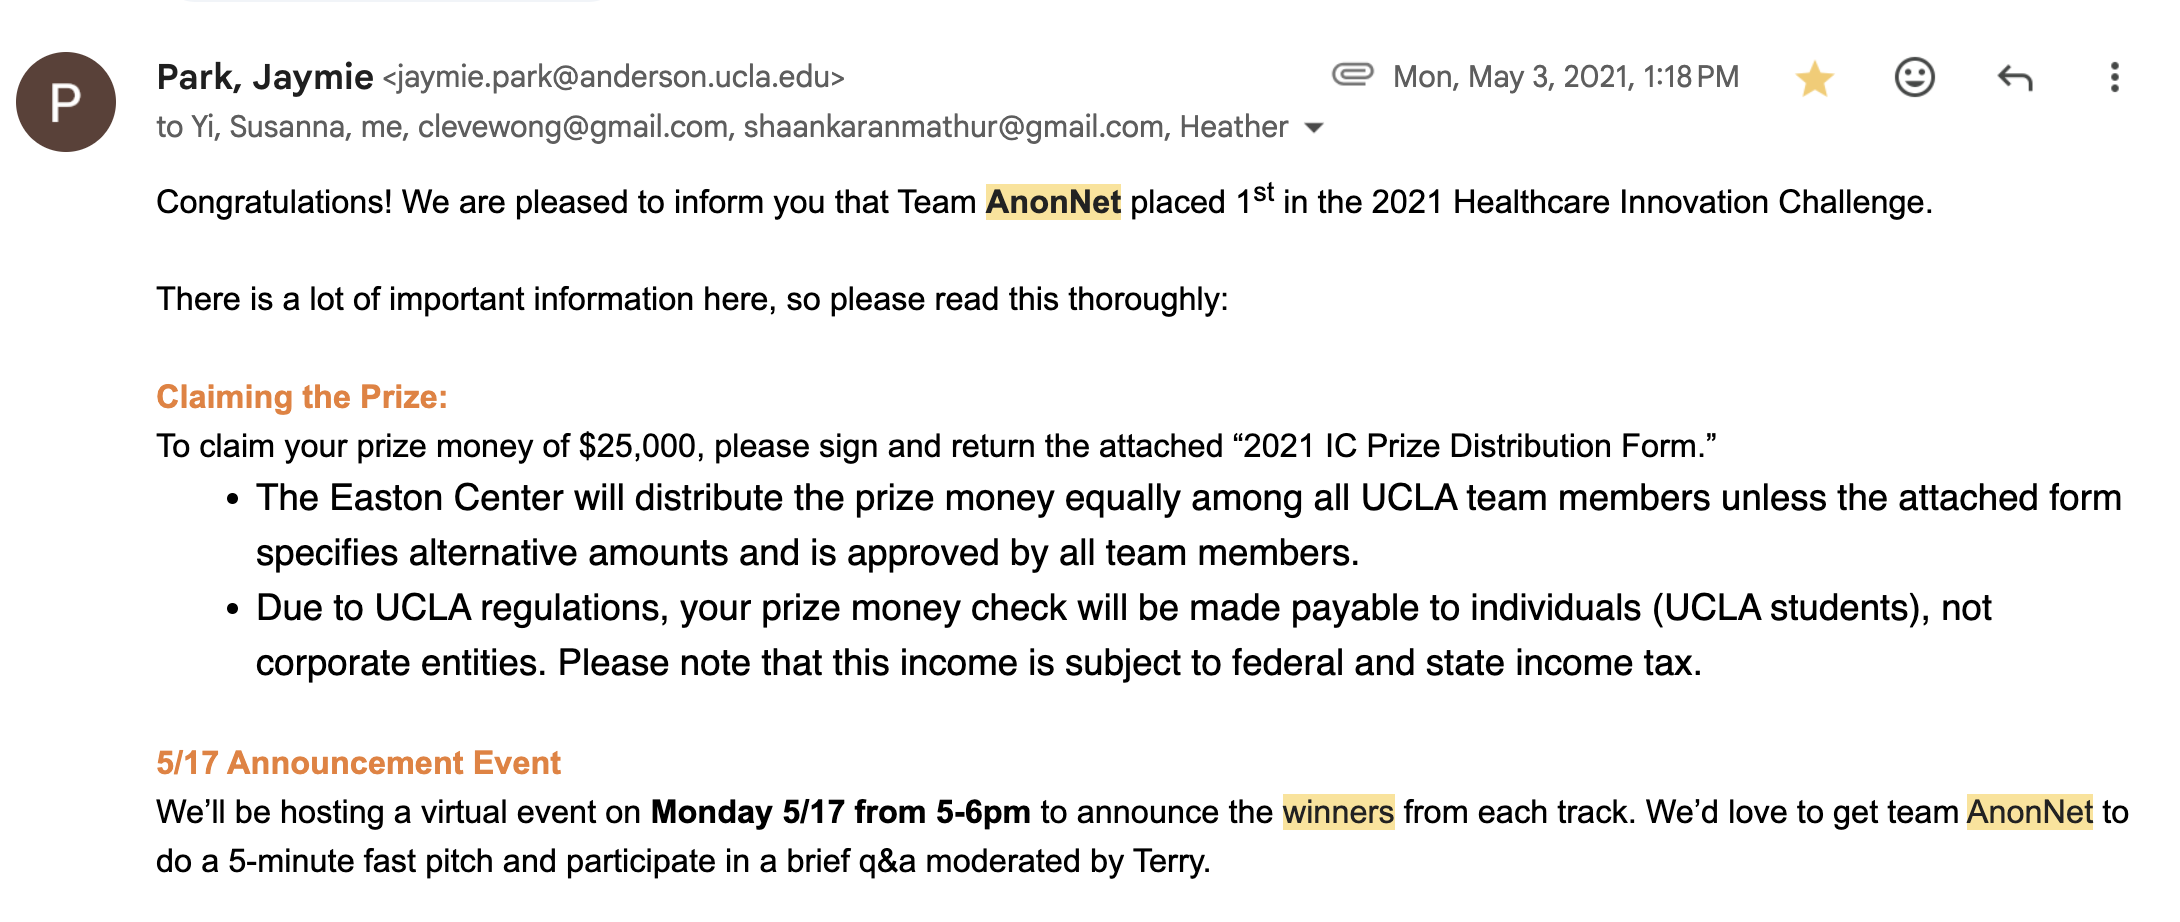
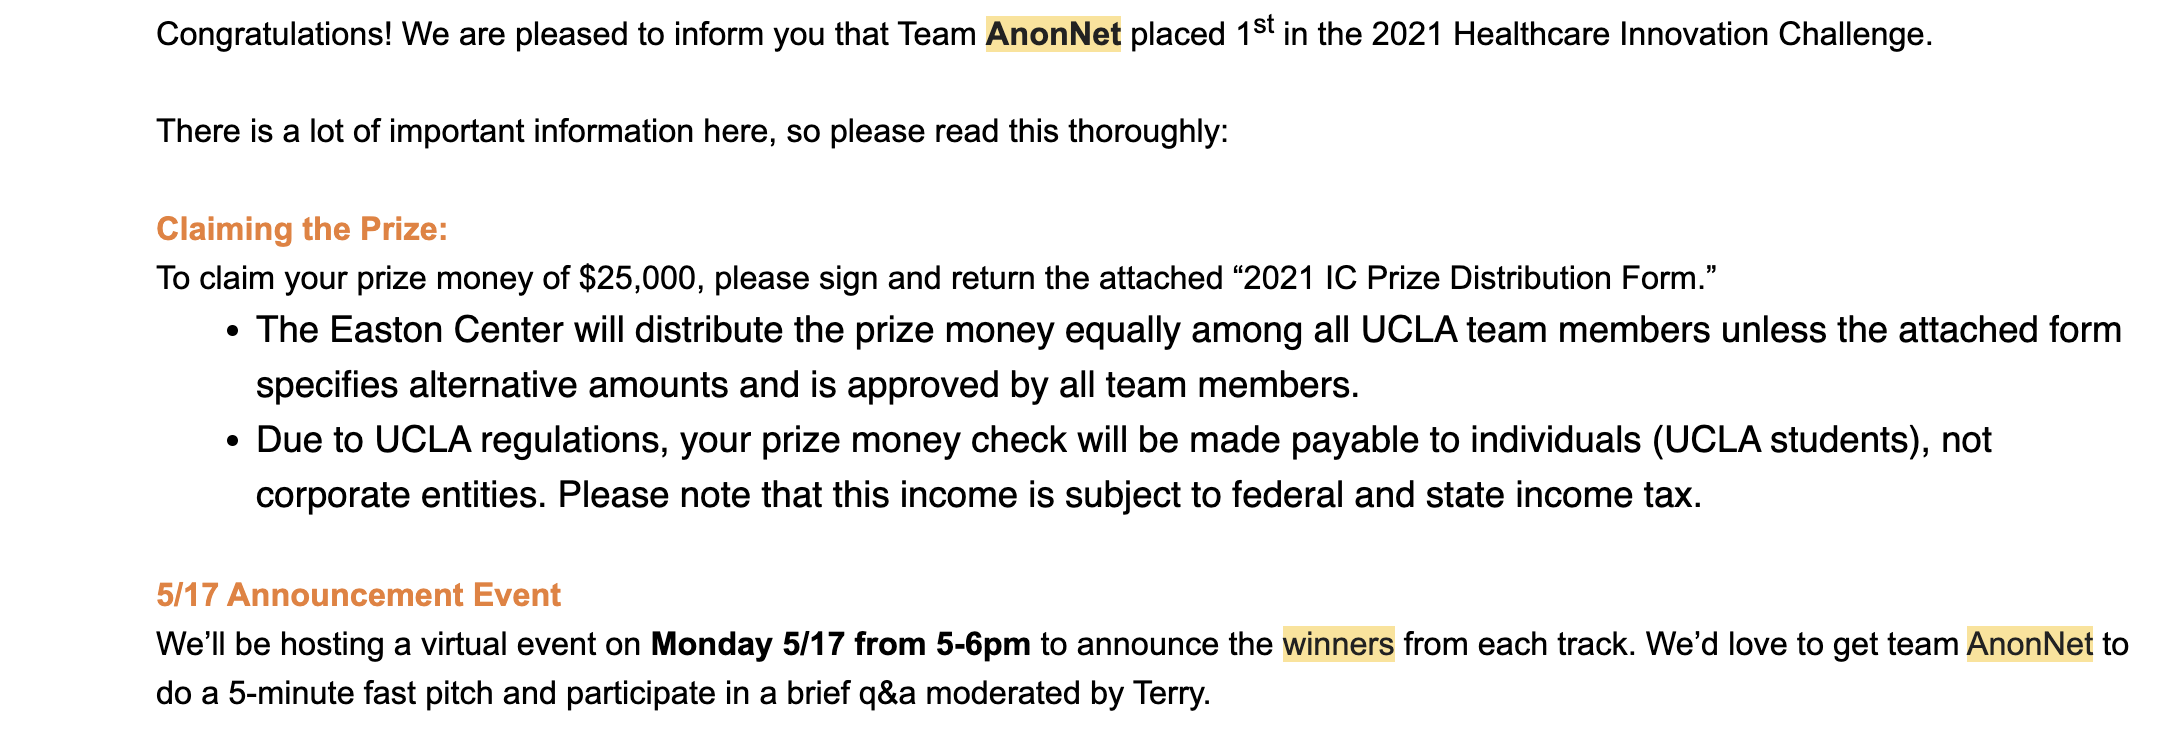
Remove exposed personal info and add stylesheet integrity checks
- Crop the email header (classmates' addresses) out of anonnet_winner.png
- Strip GPS/camera EXIF from img/headshot-720.jpg
- Delete gci_home.png (portal username), unused headshot.JPG, and the
  unreferenced Replit leftovers in attached_assets/ (keeps the MSIS 522 PDF)
- Add SRI hashes + crossorigin to the cdnjs Tailwind and Font Awesome links
- Ignore .claude/

diff --git a/index.html b/index.html
@@ -19,8 +19,8 @@
   <meta name="twitter:description" content="Client-facing technical consultant taking enterprise software from discovery and executive demos to go-live. Salesforce Certified Platform Administrator building with Agentforce and Data 360.">
   <meta name="twitter:image" content="https://pzavar.com/img/og-card.jpg">
   <link rel="icon" href="ph.png" type="image/png">
-  <link href="https://cdnjs.cloudflare.com/ajax/libs/tailwindcss/2.2.19/tailwind.min.css" rel="stylesheet">
-  <link rel="stylesheet" href="https://cdnjs.cloudflare.com/ajax/libs/font-awesome/6.5.1/css/all.min.css">
+  <link href="https://cdnjs.cloudflare.com/ajax/libs/tailwindcss/2.2.19/tailwind.min.css" rel="stylesheet" integrity="sha512-wnea99uKIC3TJF7v4eKk4Y+lMz2Mklv18+r4na2Gn1abDRPPOeef95xTzdwGD9e6zXJBteMIhZ1+68QC5byJZw==" crossorigin="anonymous" referrerpolicy="no-referrer">
+  <link rel="stylesheet" href="https://cdnjs.cloudflare.com/ajax/libs/font-awesome/6.5.1/css/all.min.css" integrity="sha512-DTOQO9RWCH3ppGqcWaEA1BIZOC6xxalwEsw9c2QQeAIftl+Vegovlnee1c9QX4TctnWMn13TZye+giMm8e2LwA==" crossorigin="anonymous" referrerpolicy="no-referrer">
   <link href="https://fonts.googleapis.com/css2?family=Inter:wght@400;500;600;700;800&family=JetBrains+Mono:wght@400;500&display=swap" rel="stylesheet">
   <link rel="stylesheet" href="style.css">
   <style>

diff --git a/demos.html b/demos.html
@@ -17,8 +17,8 @@
   <meta name="twitter:card" content="summary_large_image">
   <meta name="twitter:image" content="https://pzavar.com/img/og-demos.jpg">
   <link rel="icon" href="ph.png" type="image/png">
-  <link href="https://cdnjs.cloudflare.com/ajax/libs/tailwindcss/2.2.19/tailwind.min.css" rel="stylesheet">
-  <link rel="stylesheet" href="https://cdnjs.cloudflare.com/ajax/libs/font-awesome/6.5.1/css/all.min.css">
+  <link href="https://cdnjs.cloudflare.com/ajax/libs/tailwindcss/2.2.19/tailwind.min.css" rel="stylesheet" integrity="sha512-wnea99uKIC3TJF7v4eKk4Y+lMz2Mklv18+r4na2Gn1abDRPPOeef95xTzdwGD9e6zXJBteMIhZ1+68QC5byJZw==" crossorigin="anonymous" referrerpolicy="no-referrer">
+  <link rel="stylesheet" href="https://cdnjs.cloudflare.com/ajax/libs/font-awesome/6.5.1/css/all.min.css" integrity="sha512-DTOQO9RWCH3ppGqcWaEA1BIZOC6xxalwEsw9c2QQeAIftl+Vegovlnee1c9QX4TctnWMn13TZye+giMm8e2LwA==" crossorigin="anonymous" referrerpolicy="no-referrer">
   <link href="https://fonts.googleapis.com/css2?family=Inter:wght@400;500;600;700;800&family=JetBrains+Mono:wght@400;500&display=swap" rel="stylesheet">
   <link rel="stylesheet" href="style.css">
   <style>

diff --git a/content.html b/content.html
@@ -16,8 +16,8 @@
   <meta name="twitter:card" content="summary_large_image">
   <meta name="twitter:image" content="https://pzavar.com/img/og-card.jpg">
   <link rel="icon" href="ph.png" type="image/png">
-  <link href="https://cdnjs.cloudflare.com/ajax/libs/tailwindcss/2.2.19/tailwind.min.css" rel="stylesheet">
-  <link rel="stylesheet" href="https://cdnjs.cloudflare.com/ajax/libs/font-awesome/6.5.1/css/all.min.css">
+  <link href="https://cdnjs.cloudflare.com/ajax/libs/tailwindcss/2.2.19/tailwind.min.css" rel="stylesheet" integrity="sha512-wnea99uKIC3TJF7v4eKk4Y+lMz2Mklv18+r4na2Gn1abDRPPOeef95xTzdwGD9e6zXJBteMIhZ1+68QC5byJZw==" crossorigin="anonymous" referrerpolicy="no-referrer">
+  <link rel="stylesheet" href="https://cdnjs.cloudflare.com/ajax/libs/font-awesome/6.5.1/css/all.min.css" integrity="sha512-DTOQO9RWCH3ppGqcWaEA1BIZOC6xxalwEsw9c2QQeAIftl+Vegovlnee1c9QX4TctnWMn13TZye+giMm8e2LwA==" crossorigin="anonymous" referrerpolicy="no-referrer">
   <link href="https://fonts.googleapis.com/css2?family=Inter:wght@400;500;600;700;800&family=JetBrains+Mono:wght@400;500&display=swap" rel="stylesheet">
   <link rel="stylesheet" href="style.css">
 </head>

diff --git a/essay-ai-from-scifi-to-reality.html b/essay-ai-from-scifi-to-reality.html
@@ -16,8 +16,8 @@
   <meta name="twitter:card" content="summary_large_image">
   <meta name="twitter:image" content="https://pzavar.com/img/og-card.jpg">
   <link rel="icon" href="ph.png" type="image/png">
-  <link href="https://cdnjs.cloudflare.com/ajax/libs/tailwindcss/2.2.19/tailwind.min.css" rel="stylesheet">
-  <link rel="stylesheet" href="https://cdnjs.cloudflare.com/ajax/libs/font-awesome/6.5.1/css/all.min.css">
+  <link href="https://cdnjs.cloudflare.com/ajax/libs/tailwindcss/2.2.19/tailwind.min.css" rel="stylesheet" integrity="sha512-wnea99uKIC3TJF7v4eKk4Y+lMz2Mklv18+r4na2Gn1abDRPPOeef95xTzdwGD9e6zXJBteMIhZ1+68QC5byJZw==" crossorigin="anonymous" referrerpolicy="no-referrer">
+  <link rel="stylesheet" href="https://cdnjs.cloudflare.com/ajax/libs/font-awesome/6.5.1/css/all.min.css" integrity="sha512-DTOQO9RWCH3ppGqcWaEA1BIZOC6xxalwEsw9c2QQeAIftl+Vegovlnee1c9QX4TctnWMn13TZye+giMm8e2LwA==" crossorigin="anonymous" referrerpolicy="no-referrer">
   <link href="https://fonts.googleapis.com/css2?family=Inter:wght@400;500;600;700;800&family=JetBrains+Mono:wght@400;500&display=swap" rel="stylesheet">
   <link rel="stylesheet" href="style.css">
 </head>

diff --git a/essay-ai-product-management.html b/essay-ai-product-management.html
@@ -17,8 +17,8 @@
   <meta name="twitter:card" content="summary_large_image">
   <meta name="twitter:image" content="https://pzavar.com/img/og-card.jpg">
   <link rel="icon" href="ph.png" type="image/png">
-  <link href="https://cdnjs.cloudflare.com/ajax/libs/tailwindcss/2.2.19/tailwind.min.css" rel="stylesheet">
-  <link rel="stylesheet" href="https://cdnjs.cloudflare.com/ajax/libs/font-awesome/6.5.1/css/all.min.css">
+  <link href="https://cdnjs.cloudflare.com/ajax/libs/tailwindcss/2.2.19/tailwind.min.css" rel="stylesheet" integrity="sha512-wnea99uKIC3TJF7v4eKk4Y+lMz2Mklv18+r4na2Gn1abDRPPOeef95xTzdwGD9e6zXJBteMIhZ1+68QC5byJZw==" crossorigin="anonymous" referrerpolicy="no-referrer">
+  <link rel="stylesheet" href="https://cdnjs.cloudflare.com/ajax/libs/font-awesome/6.5.1/css/all.min.css" integrity="sha512-DTOQO9RWCH3ppGqcWaEA1BIZOC6xxalwEsw9c2QQeAIftl+Vegovlnee1c9QX4TctnWMn13TZye+giMm8e2LwA==" crossorigin="anonymous" referrerpolicy="no-referrer">
   <link href="https://fonts.googleapis.com/css2?family=Inter:wght@400;500;600;700;800&family=JetBrains+Mono:wght@400;500&display=swap" rel="stylesheet">
   <link rel="stylesheet" href="style.css">
 </head>

diff --git a/essay-government-digital-services.html b/essay-government-digital-services.html
@@ -17,8 +17,8 @@
   <meta name="twitter:card" content="summary_large_image">
   <meta name="twitter:image" content="https://pzavar.com/img/og-card.jpg">
   <link rel="icon" href="ph.png" type="image/png">
-  <link href="https://cdnjs.cloudflare.com/ajax/libs/tailwindcss/2.2.19/tailwind.min.css" rel="stylesheet">
-  <link rel="stylesheet" href="https://cdnjs.cloudflare.com/ajax/libs/font-awesome/6.5.1/css/all.min.css">
+  <link href="https://cdnjs.cloudflare.com/ajax/libs/tailwindcss/2.2.19/tailwind.min.css" rel="stylesheet" integrity="sha512-wnea99uKIC3TJF7v4eKk4Y+lMz2Mklv18+r4na2Gn1abDRPPOeef95xTzdwGD9e6zXJBteMIhZ1+68QC5byJZw==" crossorigin="anonymous" referrerpolicy="no-referrer">
+  <link rel="stylesheet" href="https://cdnjs.cloudflare.com/ajax/libs/font-awesome/6.5.1/css/all.min.css" integrity="sha512-DTOQO9RWCH3ppGqcWaEA1BIZOC6xxalwEsw9c2QQeAIftl+Vegovlnee1c9QX4TctnWMn13TZye+giMm8e2LwA==" crossorigin="anonymous" referrerpolicy="no-referrer">
   <link href="https://fonts.googleapis.com/css2?family=Inter:wght@400;500;600;700;800&family=JetBrains+Mono:wght@400;500&display=swap" rel="stylesheet">
   <link rel="stylesheet" href="style.css">
 </head>

diff --git a/essay-intel-case-analysis.html b/essay-intel-case-analysis.html
@@ -16,8 +16,8 @@
   <meta name="twitter:card" content="summary_large_image">
   <meta name="twitter:image" content="https://pzavar.com/img/og-card.jpg">
   <link rel="icon" href="ph.png" type="image/png">
-  <link href="https://cdnjs.cloudflare.com/ajax/libs/tailwindcss/2.2.19/tailwind.min.css" rel="stylesheet">
-  <link rel="stylesheet" href="https://cdnjs.cloudflare.com/ajax/libs/font-awesome/6.5.1/css/all.min.css">
+  <link href="https://cdnjs.cloudflare.com/ajax/libs/tailwindcss/2.2.19/tailwind.min.css" rel="stylesheet" integrity="sha512-wnea99uKIC3TJF7v4eKk4Y+lMz2Mklv18+r4na2Gn1abDRPPOeef95xTzdwGD9e6zXJBteMIhZ1+68QC5byJZw==" crossorigin="anonymous" referrerpolicy="no-referrer">
+  <link rel="stylesheet" href="https://cdnjs.cloudflare.com/ajax/libs/font-awesome/6.5.1/css/all.min.css" integrity="sha512-DTOQO9RWCH3ppGqcWaEA1BIZOC6xxalwEsw9c2QQeAIftl+Vegovlnee1c9QX4TctnWMn13TZye+giMm8e2LwA==" crossorigin="anonymous" referrerpolicy="no-referrer">
   <link href="https://fonts.googleapis.com/css2?family=Inter:wght@400;500;600;700;800&family=JetBrains+Mono:wght@400;500&display=swap" rel="stylesheet">
   <link rel="stylesheet" href="style.css">
 </head>

diff --git a/essay-microsoft-ai-strategy.html b/essay-microsoft-ai-strategy.html
@@ -16,8 +16,8 @@
   <meta name="twitter:card" content="summary_large_image">
   <meta name="twitter:image" content="https://pzavar.com/img/og-card.jpg">
   <link rel="icon" href="ph.png" type="image/png">
-  <link href="https://cdnjs.cloudflare.com/ajax/libs/tailwindcss/2.2.19/tailwind.min.css" rel="stylesheet">
-  <link rel="stylesheet" href="https://cdnjs.cloudflare.com/ajax/libs/font-awesome/6.5.1/css/all.min.css">
+  <link href="https://cdnjs.cloudflare.com/ajax/libs/tailwindcss/2.2.19/tailwind.min.css" rel="stylesheet" integrity="sha512-wnea99uKIC3TJF7v4eKk4Y+lMz2Mklv18+r4na2Gn1abDRPPOeef95xTzdwGD9e6zXJBteMIhZ1+68QC5byJZw==" crossorigin="anonymous" referrerpolicy="no-referrer">
+  <link rel="stylesheet" href="https://cdnjs.cloudflare.com/ajax/libs/font-awesome/6.5.1/css/all.min.css" integrity="sha512-DTOQO9RWCH3ppGqcWaEA1BIZOC6xxalwEsw9c2QQeAIftl+Vegovlnee1c9QX4TctnWMn13TZye+giMm8e2LwA==" crossorigin="anonymous" referrerpolicy="no-referrer">
   <link href="https://fonts.googleapis.com/css2?family=Inter:wght@400;500;600;700;800&family=JetBrains+Mono:wght@400;500&display=swap" rel="stylesheet">
   <link rel="stylesheet" href="style.css">
 </head>

diff --git a/essay-technical-business-balance.html b/essay-technical-business-balance.html
@@ -17,8 +17,8 @@
   <meta name="twitter:card" content="summary_large_image">
   <meta name="twitter:image" content="https://pzavar.com/img/og-card.jpg">
   <link rel="icon" href="ph.png" type="image/png">
-  <link href="https://cdnjs.cloudflare.com/ajax/libs/tailwindcss/2.2.19/tailwind.min.css" rel="stylesheet">
-  <link rel="stylesheet" href="https://cdnjs.cloudflare.com/ajax/libs/font-awesome/6.5.1/css/all.min.css">
+  <link href="https://cdnjs.cloudflare.com/ajax/libs/tailwindcss/2.2.19/tailwind.min.css" rel="stylesheet" integrity="sha512-wnea99uKIC3TJF7v4eKk4Y+lMz2Mklv18+r4na2Gn1abDRPPOeef95xTzdwGD9e6zXJBteMIhZ1+68QC5byJZw==" crossorigin="anonymous" referrerpolicy="no-referrer">
+  <link rel="stylesheet" href="https://cdnjs.cloudflare.com/ajax/libs/font-awesome/6.5.1/css/all.min.css" integrity="sha512-DTOQO9RWCH3ppGqcWaEA1BIZOC6xxalwEsw9c2QQeAIftl+Vegovlnee1c9QX4TctnWMn13TZye+giMm8e2LwA==" crossorigin="anonymous" referrerpolicy="no-referrer">
   <link href="https://fonts.googleapis.com/css2?family=Inter:wght@400;500;600;700;800&family=JetBrains+Mono:wght@400;500&display=swap" rel="stylesheet">
   <link rel="stylesheet" href="style.css">
 </head>

diff --git a/essays.html b/essays.html
@@ -17,8 +17,8 @@
   <meta name="twitter:card" content="summary_large_image">
   <meta name="twitter:image" content="https://pzavar.com/img/og-card.jpg">
   <link rel="icon" href="ph.png" type="image/png">
-  <link href="https://cdnjs.cloudflare.com/ajax/libs/tailwindcss/2.2.19/tailwind.min.css" rel="stylesheet">
-  <link rel="stylesheet" href="https://cdnjs.cloudflare.com/ajax/libs/font-awesome/6.5.1/css/all.min.css">
+  <link href="https://cdnjs.cloudflare.com/ajax/libs/tailwindcss/2.2.19/tailwind.min.css" rel="stylesheet" integrity="sha512-wnea99uKIC3TJF7v4eKk4Y+lMz2Mklv18+r4na2Gn1abDRPPOeef95xTzdwGD9e6zXJBteMIhZ1+68QC5byJZw==" crossorigin="anonymous" referrerpolicy="no-referrer">
+  <link rel="stylesheet" href="https://cdnjs.cloudflare.com/ajax/libs/font-awesome/6.5.1/css/all.min.css" integrity="sha512-DTOQO9RWCH3ppGqcWaEA1BIZOC6xxalwEsw9c2QQeAIftl+Vegovlnee1c9QX4TctnWMn13TZye+giMm8e2LwA==" crossorigin="anonymous" referrerpolicy="no-referrer">
   <link href="https://fonts.googleapis.com/css2?family=Inter:wght@400;500;600;700;800&family=JetBrains+Mono:wght@400;500&display=swap" rel="stylesheet">
   <link rel="stylesheet" href="style.css">
 </head>
